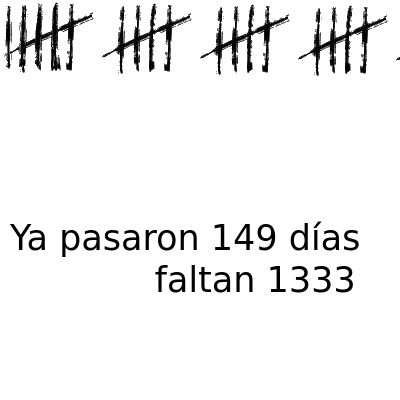
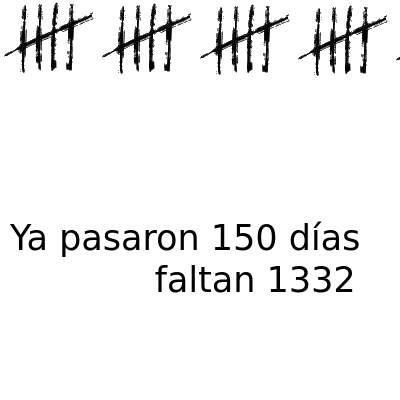
deploy: 28882f26f23b9f53dac6c4991168e610486d0e44

Changed region(s): [[0.0, 0.0, 0.15, 0.18], [0.57, 0.54, 0.69, 0.63], [0.84, 0.66, 0.9, 0.75]]

diff --git a/index.html b/index.html
@@ -3,19 +3,19 @@
   <head>
     <meta charset='utf-8'>
     <meta http-equiv='X-UA-Compatible' content='IE=edge'>
-    <title>Ya pasaron 149 días y faltan 1333</title>
-    <meta name="description" content="Ya pasaron 149 días y faltan 1333">
-    <meta itemprop="name" content="Ya pasaron 149 días y faltan 1333">
-    <meta itemprop="description" content="Ya pasaron 149 días y faltan 1333">
+    <title>Ya pasaron 150 días y faltan 1332</title>
+    <meta name="description" content="Ya pasaron 150 días y faltan 1332">
+    <meta itemprop="name" content="Ya pasaron 150 días y faltan 1332">
+    <meta itemprop="description" content="Ya pasaron 150 días y faltan 1332">
     <meta name="twitter:card" content="summary">
-    <meta name="twitter:title" content="Ya pasaron 149 días y faltan 1333">
-    <meta name="twitter:description" content="Ya pasaron 149 días y faltan 1333">
+    <meta name="twitter:title" content="Ya pasaron 150 días y faltan 1332">
+    <meta name="twitter:description" content="Ya pasaron 150 días y faltan 1332">
     <meta name="twitter:creator" content="@FloriusWasTaken">
     <meta name="twitter:image" content="https://pasaron.meme.ar/capture.png">
-    <meta property="og:title" content="Ya pasaron 149 días y faltan 1333">
-    <meta property="og:description" content="Ya pasaron 149 días y faltan 1333">
+    <meta property="og:title" content="Ya pasaron 150 días y faltan 1332">
+    <meta property="og:description" content="Ya pasaron 150 días y faltan 1332">
     <meta property="og:url" content="https://pasaron.meme.ar">
-    <meta property="og:site_name" content="Ya pasaron 149 días y faltan 1333">
+    <meta property="og:site_name" content="Ya pasaron 150 días y faltan 1332">
     <meta property="og:type" content="website">
     <meta property="og:image" content="https://pasaron.meme.ar/capture.png">
     <meta name="theme-color" content="#dc143c">
@@ -69,18 +69,16 @@
         padding: 0;
       }
     </style>
-    <title>Ya pasaron 149 días y faltan 1333</title>
+    <title>Ya pasaron 150 días y faltan 1332</title>
   </head>
   <body>
     <div id="main">
-      <img src="img/5.png"/><img src="img/5.png"/><img src="img/5.png"/><img src="img/5.png"/><img src="img/5.png"/><img src="img/5.png"/><img src="img/5.png"/><img src="img/5.png"/><img src="img/5.png"/><img src="img/5.png"/><img src="img/5.png"/><img src="img/5.png"/><img src="img/5.png"/><img src="img/5.png"/><img src="img/5.png"/><img src="img/5.png"/><img src="img/5.png"/><img src="img/5.png"/><img src="img/5.png"/><img src="img/5.png"/><img src="img/5.png"/><img src="img/5.png"/><img src="img/5.png"/><img src="img/5.png"/><img src="img/5.png"/><img src="img/5.png"/><img src="img/5.png"/><img src="img/5.png"/><img src="img/5.png"/>
-      
-        <img src="img/4.png"/>
+      <img src="img/5.png"/><img src="img/5.png"/><img src="img/5.png"/><img src="img/5.png"/><img src="img/5.png"/><img src="img/5.png"/><img src="img/5.png"/><img src="img/5.png"/><img src="img/5.png"/><img src="img/5.png"/><img src="img/5.png"/><img src="img/5.png"/><img src="img/5.png"/><img src="img/5.png"/><img src="img/5.png"/><img src="img/5.png"/><img src="img/5.png"/><img src="img/5.png"/><img src="img/5.png"/><img src="img/5.png"/><img src="img/5.png"/><img src="img/5.png"/><img src="img/5.png"/><img src="img/5.png"/><img src="img/5.png"/><img src="img/5.png"/><img src="img/5.png"/><img src="img/5.png"/><img src="img/5.png"/><img src="img/5.png"/>
       
     </div>
     <footer id="footer">
       <marquee id="marquee" class="is-vertical-align">
-        Ya pasaron 149 días y faltan 1333
+        Ya pasaron 150 días y faltan 1332
       </marquee>
       <ul>
         <li>
